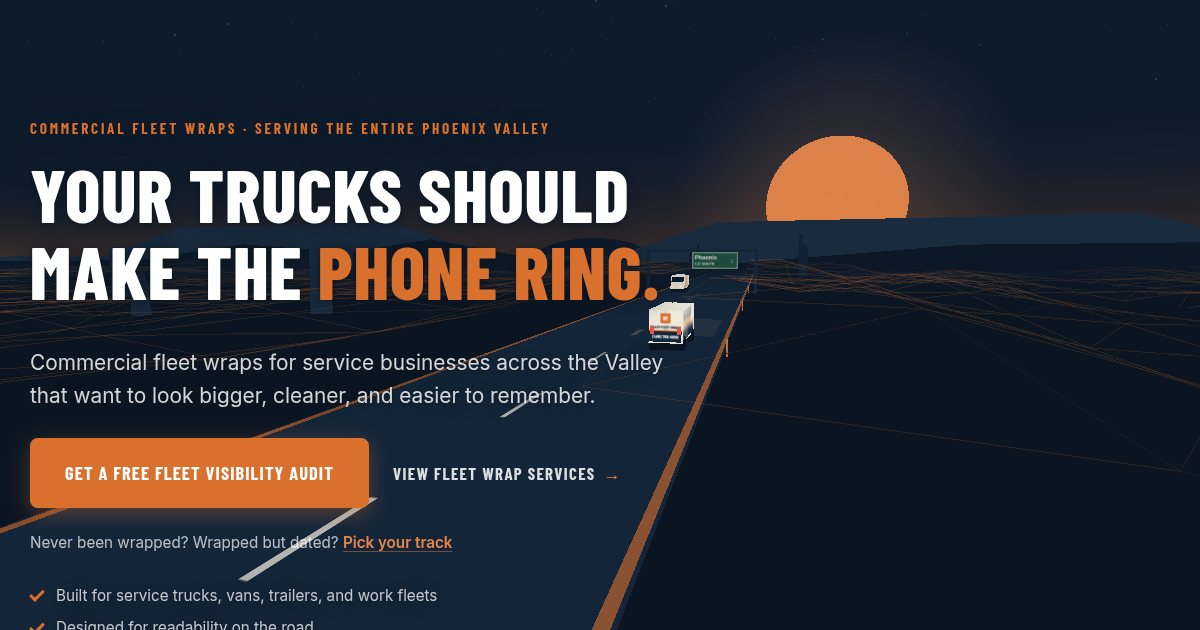
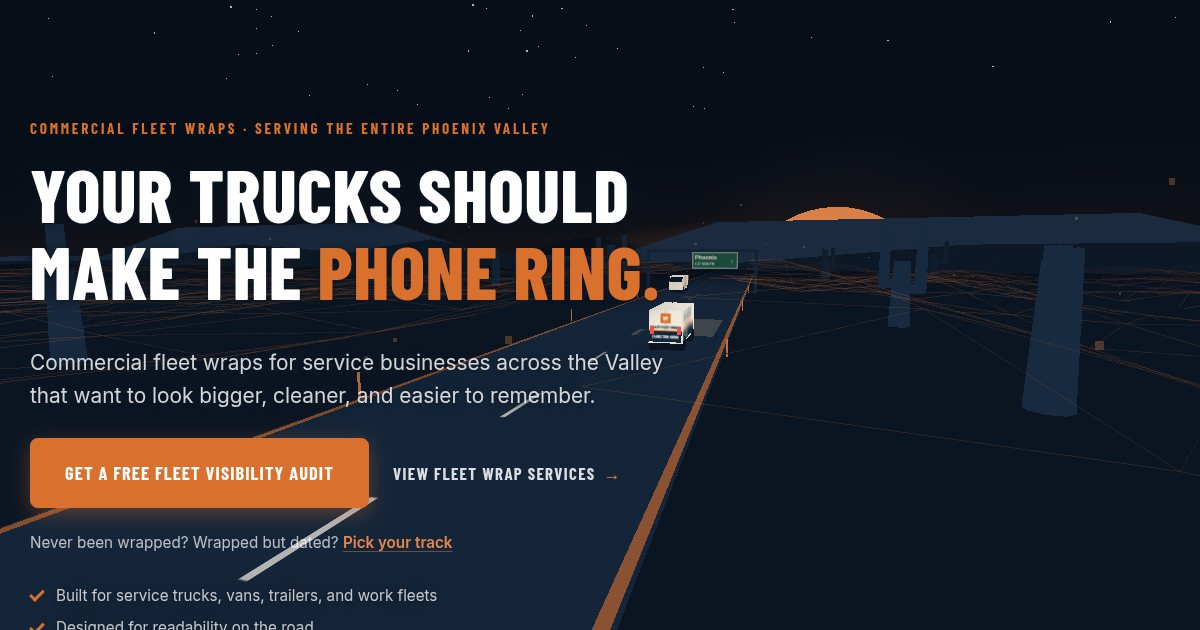
Declutter nav; turn the scroll journey into a Phoenix sunrise
Nav: trimmed to Services / Packages / FAQs + phone + CTA. Industries,
Process, and Service Area remain one scroll away and stay linked in the
footer nav. Phone number now fits at every desktop width.

Scene: the time-of-day arc is reversed from dusk-to-night into a
sunrise. The page opens in pre-dawn dark — stars out, downtown windows
and Valley sprawl lights burning, headlight pool strong, faint ember
band on the horizon. As the visitor scrolls, the sun climbs out from
behind the mesas (large and copper at the horizon, smaller and paler as
it rises), the sky lerps to a warm morning blue, the horizon band
swells gold, and the night elements — stars, window lights, sprawl,
city glow, headlights — fade out. Full morning over downtown by the
contact section. og:image regenerated from the new pre-dawn hero.

Claude-Session: https://claude.ai/code/session_01PoDggUq3XmuwckSmDikzKt

diff --git a/js/scene.js b/js/scene.js
@@ -4,12 +4,14 @@
 
    Instead of a treadmill, the world is one fixed place — a Sonoran Desert
    highway that runs from Deer Valley to downtown Phoenix — and scrolling
-   scrubs the camera along a cinematic spline through it: opening high over
-   the desert at dusk, swooping down behind a wrapped Valley Fleet Wraps
-   cargo van, drifting alongside it past saguaros, rising over the road as
-   downtown approaches, swinging wide around a Camelback-style ridge, and
-   pulling up over the lit city at night. Mouse movement adds a free-look
-   parallax so visitors can glance around the world at any point.
+   scrubs the camera along a cinematic spline through it, playing out a
+   Phoenix sunrise as it goes: opening in the pre-dawn dark behind a
+   wrapped Valley Fleet Wraps cargo van (stars out, city lights burning,
+   a faint ember glow on the horizon), the sun climbing out from behind
+   the mesas as the visitor scrolls, and full morning over downtown by
+   the end — stars gone, window lights winked out, sky warm and blue.
+   Mouse movement adds a free-look parallax so visitors can glance
+   around the world at any point.
 
    Palette: deep navy, copper, sand — matching the site.
 
@@ -40,11 +42,13 @@
 
   renderer.setPixelRatio(Math.min(window.devicePixelRatio, 1.5));
 
-  /* Palette (dusk value → night value where the scroll shifts it) */
-  var SKY_TOP_DUSK = new THREE.Color('#0e1b2c');
-  var SKY_TOP_NIGHT = new THREE.Color('#070e18');
-  var SKY_HORIZON_DUSK = new THREE.Color('#b35a24');
-  var SKY_HORIZON_NIGHT = new THREE.Color('#3a2118');
+  /* Palette (pre-dawn value → morning value; scroll drives the sunrise) */
+  var SKY_TOP_DAWN = new THREE.Color('#070e18');
+  var SKY_TOP_MORNING = new THREE.Color('#35597c');
+  var SKY_HORIZON_DAWN = new THREE.Color('#3a2114');
+  var SKY_HORIZON_MORNING = new THREE.Color('#f0a95c');
+  var SUN_DAWN = new THREE.Color('#e5854a');
+  var SUN_MORNING = new THREE.Color('#ffd9a0');
   var COPPER = new THREE.Color('#d9702e');
   var COPPER_LIGHT = new THREE.Color('#e5854a');
   var SAND = new THREE.Color('#f6f1e8');
@@ -53,8 +57,8 @@
   var SILHOUETTE = new THREE.Color('#182a40');
 
   var scene = new THREE.Scene();
-  scene.background = SKY_TOP_DUSK.clone();
-  scene.fog = new THREE.Fog(SKY_TOP_DUSK.clone(), 70, 260);
+  scene.background = SKY_TOP_DAWN.clone();
+  scene.fog = new THREE.Fog(SKY_TOP_DAWN.clone(), 70, 260);
 
   var camera = new THREE.PerspectiveCamera(60, 1, 0.1, 520);
 
@@ -71,18 +75,19 @@
 
   var skyMat = new THREE.ShaderMaterial({
     uniforms: {
-      top: { value: SKY_TOP_DUSK.clone() },
-      horizon: { value: SKY_HORIZON_DUSK.clone() }
+      top: { value: SKY_TOP_DAWN.clone() },
+      horizon: { value: SKY_HORIZON_DAWN.clone() },
+      band: { value: 0.16 } // warm horizon band; swells as the sun rises
     },
     vertexShader:
       'varying vec2 vUv;' +
       'void main(){ vUv = uv; gl_Position = projectionMatrix * modelViewMatrix * vec4(position,1.0); }',
     fragmentShader:
-      'uniform vec3 top; uniform vec3 horizon; varying vec2 vUv;' +
+      'uniform vec3 top; uniform vec3 horizon; uniform float band; varying vec2 vUv;' +
       'void main(){' +
       '  float t = smoothstep(0.05, 0.55, vUv.y);' +
       '  vec3 c = mix(horizon, top, t);' +
-      '  c += vec3(0.85, 0.42, 0.16) * (1.0 - smoothstep(0.0, 0.22, vUv.y)) * 0.35;' +
+      '  c += vec3(0.85, 0.42, 0.16) * (1.0 - smoothstep(0.0, 0.22, vUv.y)) * band;' +
       '  gl_FragColor = vec4(c, 1.0);' +
       '}',
     depthWrite: false,
@@ -108,21 +113,23 @@
   var glowTex = makeGlowTexture();
 
   // The sun sits right of the road — the hero copy owns the left side.
+  // It starts below the mesa line (occluded by the ridge shapes) and
+  // climbs out as the visitor scrolls.
   var sun = new THREE.Mesh(
     new THREE.CircleGeometry(30, 48),
-    new THREE.MeshBasicMaterial({ color: COPPER_LIGHT, fog: false, transparent: true, opacity: 0.95 })
+    new THREE.MeshBasicMaterial({ color: SUN_DAWN.clone(), fog: false, transparent: true, opacity: 0.95 })
   );
-  sun.position.set(42, 30, -272);
+  sun.position.set(42, -12, -272);
   backdrop.add(sun);
 
   var sunGlow = new THREE.Mesh(
     new THREE.PlaneGeometry(150, 150),
     new THREE.MeshBasicMaterial({
-      map: glowTex, fog: false, transparent: true, opacity: 0.5,
+      map: glowTex, fog: false, transparent: true, opacity: 0.2,
       blending: THREE.AdditiveBlending, depthWrite: false
     })
   );
-  sunGlow.position.set(42, 30, -273);
+  sunGlow.position.set(42, -12, -273);
   backdrop.add(sunGlow);
 
   var cityGlow = new THREE.Mesh(
@@ -459,7 +466,7 @@
     palms.push(palm);
   }
 
-  /* ---------- The Valley of lights: sprawl glitter that appears at night ---------- */
+  /* ---------- The Valley of lights: pre-dawn sprawl glitter that fades at sunrise ---------- */
   var sprawlPositions = new Float32Array(420 * 3);
   for (var sp = 0; sp < 420; sp++) {
     sprawlPositions[sp * 3] = (Math.random() - 0.5) * 520;
@@ -584,7 +591,7 @@
       g.add(axle);
     });
 
-    // Taillights so the van reads at night from behind.
+    // Taillights so the van reads in the pre-dawn dark from behind.
     [-0.85, 0.85].forEach(function (lx) {
       var tail = new THREE.Mesh(
         new THREE.PlaneGeometry(0.26, 0.5),
@@ -667,7 +674,7 @@
     new THREE.Vector3(9, 14, -330),    // services/packages: rising over the highway
     new THREE.Vector3(0, 5, -440),     // service area/before: back down for the chase
     new THREE.Vector3(-24, 10, -520),  // process/faq: swinging wide around the ridge
-    new THREE.Vector3(0, 17, -590)     // contact: pulled up over downtown at night
+    new THREE.Vector3(0, 17, -590)     // contact: pulled up over downtown in full morning
   ]);
 
   var lookPath = new THREE.CatmullRomCurve3([
@@ -797,9 +804,10 @@
     if (leadVan.position.z > camPos.z - 22) leadVan.position.z = camPos.z - 22;
     leadVan.position.y = Math.sin(t * 6) * 0.03;
 
-    // Headlight pool rides just ahead of the van, brightening as night falls.
+    // Headlight pool rides just ahead of the van — strong in the pre-dawn
+    // dark, fading out as daylight takes over.
     headlightPool.position.z = leadVan.position.z - 12;
-    headlightPool.material.opacity = 0.06 + p * 0.12;
+    headlightPool.material.opacity = 0.05 + 0.13 * (1 - p);
 
     // Oncoming traffic heads back toward Deer Valley past you.
     oncoming.position.z += 0.5 + throttle * 1.2;
@@ -807,37 +815,42 @@
       oncoming.position.z = Math.max(camPos.z - 420, -680); // stay inside the world
     }
 
-    // Dusk → night across the whole journey.
-    sun.position.y = 30 - p * 26;
-    sun.scale.setScalar(1 + p * 0.35);
+    // Pre-dawn → sunrise → morning across the whole journey. The sun
+    // climbs out from behind the mesas, big and copper at the horizon,
+    // smaller and paler as it gains height.
+    sun.position.y = -12 + p * 54;
+    sun.scale.setScalar(1.35 - p * 0.3);
     sunGlow.position.y = sun.position.y;
-    sunGlow.scale.setScalar(1 + p * 0.5);
-    sun.material.opacity = 0.95 - p * 0.35;
-    sunGlow.material.opacity = (0.5 + Math.sin(t * 0.8) * 0.05) * (1 - p * 0.5);
+    sunGlow.scale.setScalar(1 + p * 0.4);
+    sun.material.color.lerpColors(SUN_DAWN, SUN_MORNING, p);
+    sunGlow.material.opacity = (0.2 + p * 0.4) + Math.sin(t * 0.8) * 0.04;
 
-    skyMat.uniforms.top.value.lerpColors(SKY_TOP_DUSK, SKY_TOP_NIGHT, p);
-    skyMat.uniforms.horizon.value.lerpColors(SKY_HORIZON_DUSK, SKY_HORIZON_NIGHT, p);
-    tmpColor.lerpColors(SKY_TOP_DUSK, SKY_TOP_NIGHT, p);
+    skyMat.uniforms.top.value.lerpColors(SKY_TOP_DAWN, SKY_TOP_MORNING, p);
+    skyMat.uniforms.horizon.value.lerpColors(SKY_HORIZON_DAWN, SKY_HORIZON_MORNING, p);
+    skyMat.uniforms.band.value = 0.16 + p * 0.4;
+    tmpColor.lerpColors(SKY_TOP_DAWN, SKY_TOP_MORNING, p);
     scene.background.copy(tmpColor);
     scene.fog.color.copy(tmpColor);
 
-    stars.material.opacity = 0.15 + p * 0.6;
-    cityGlow.material.opacity = p * 0.5;
-    cityGlow.scale.x = 1 + p * 0.3;
+    // The night side of the scene fades as morning arrives: stars wash
+    // out, downtown windows and the Valley's sprawl lights wink off.
+    stars.material.opacity = 0.75 * Math.max(0, 1 - p * 1.6);
+    cityGlow.material.opacity = 0.45 * (1 - p);
+    cityGlow.scale.x = 1.2;
     var i;
     for (i = 0; i < windowPlanes.length; i++) {
-      windowPlanes[i].material.opacity = Math.min(p * 1.4, 0.95);
+      windowPlanes[i].material.opacity = 0.95 * Math.max(0, 1 - p * 1.4);
     }
 
     dust.position.x = Math.sin(t * 0.1) * 6;
     stars.rotation.y = t * 0.002;
 
-    // Phoenix at night: antenna farm blinks, the Valley's sprawl lights up.
+    // Antenna farm keeps blinking but dims in daylight.
     for (i = 0; i < antennaLights.length; i++) {
       var blink = Math.sin(t * 1.6 + antennaLights[i].userData.phase);
-      antennaLights[i].material.opacity = (blink > 0 ? 0.85 : 0.15) * (0.35 + p * 0.65);
+      antennaLights[i].material.opacity = (blink > 0 ? 0.85 : 0.15) * (1 - p * 0.6);
     }
-    sprawl.material.opacity = p * 0.8;
+    sprawl.material.opacity = 0.8 * Math.max(0, 1 - p * 1.3);
 
     renderer.render(scene, camera);
   }

diff --git a/css/styles.css b/css/styles.css
@@ -1172,12 +1172,11 @@ fieldset.form-field { border: 0; padding: 0; margin-inline: 0; }
   .footer-taglines { grid-column: auto; }
 }
 
-/* Very large nav breathing room — the phone number hides in the tight
-   range where nav links + CTA already fill the header. */
-@media (min-width: 900px) and (max-width: 1180px) {
-  .main-nav { gap: 14px; }
-  .main-nav a { font-size: 0.88rem; }
-  .main-nav .nav-phone { display: none; }
+/* With the trimmed link set the nav fits comfortably from 900px up, so
+   the phone number stays visible at every desktop width. */
+@media (min-width: 900px) and (max-width: 1080px) {
+  .main-nav { gap: 16px; }
+  .main-nav a { font-size: 0.9rem; }
 }
 
 /* ---------- Reduced motion ---------- */

diff --git a/index.html b/index.html
@@ -155,12 +155,11 @@
         <span class="brand-name">Valley <strong>Fleet Wraps</strong></span>
       </a>
 
+      <!-- Kept deliberately sparse — every section is one scroll away, and
+           the footer nav carries the full list of destinations. -->
       <nav class="main-nav" id="main-nav" aria-label="Main navigation">
         <a href="#services">Services</a>
-        <a href="#industries">Industries</a>
         <a href="#packages">Packages</a>
-        <a href="#process">Process</a>
-        <a href="#service-area">Service Area</a>
         <a href="#faq">FAQs</a>
         <a href="tel:[phone redacted]" class="nav-phone">[phone redacted]</a>
         <a href="#contact" class="btn btn-primary btn-sm nav-cta">Get a Free Audit</a>